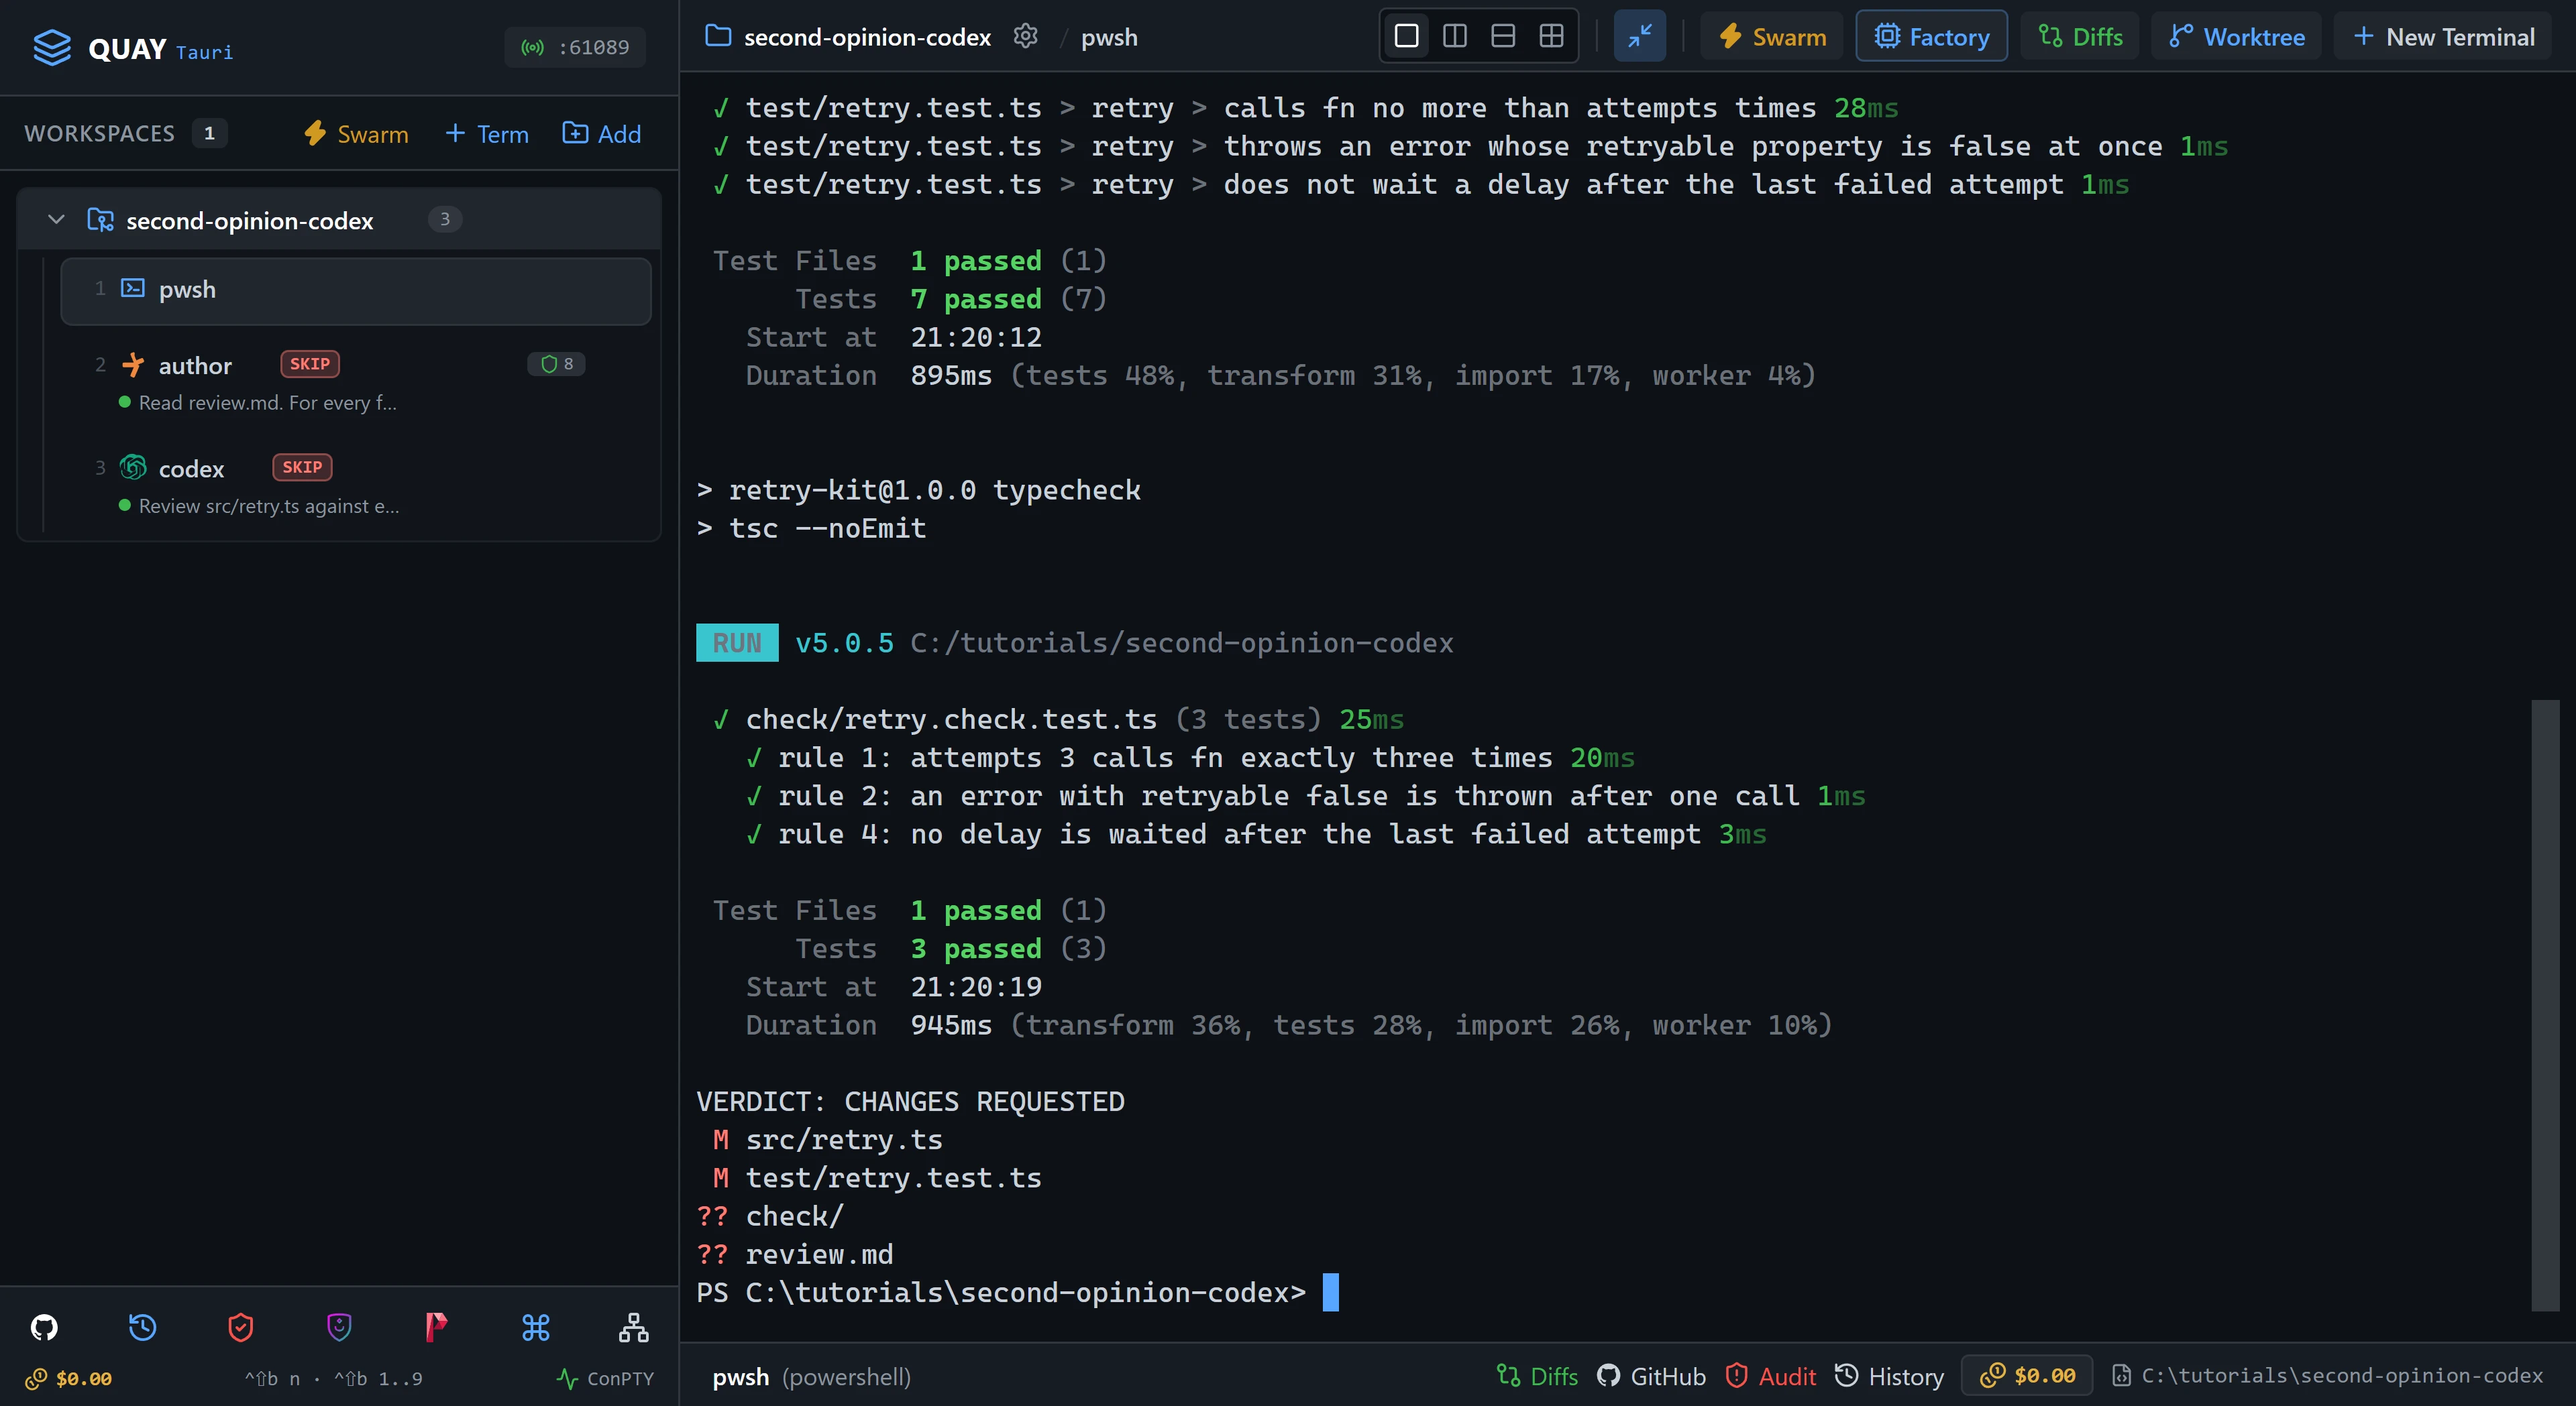
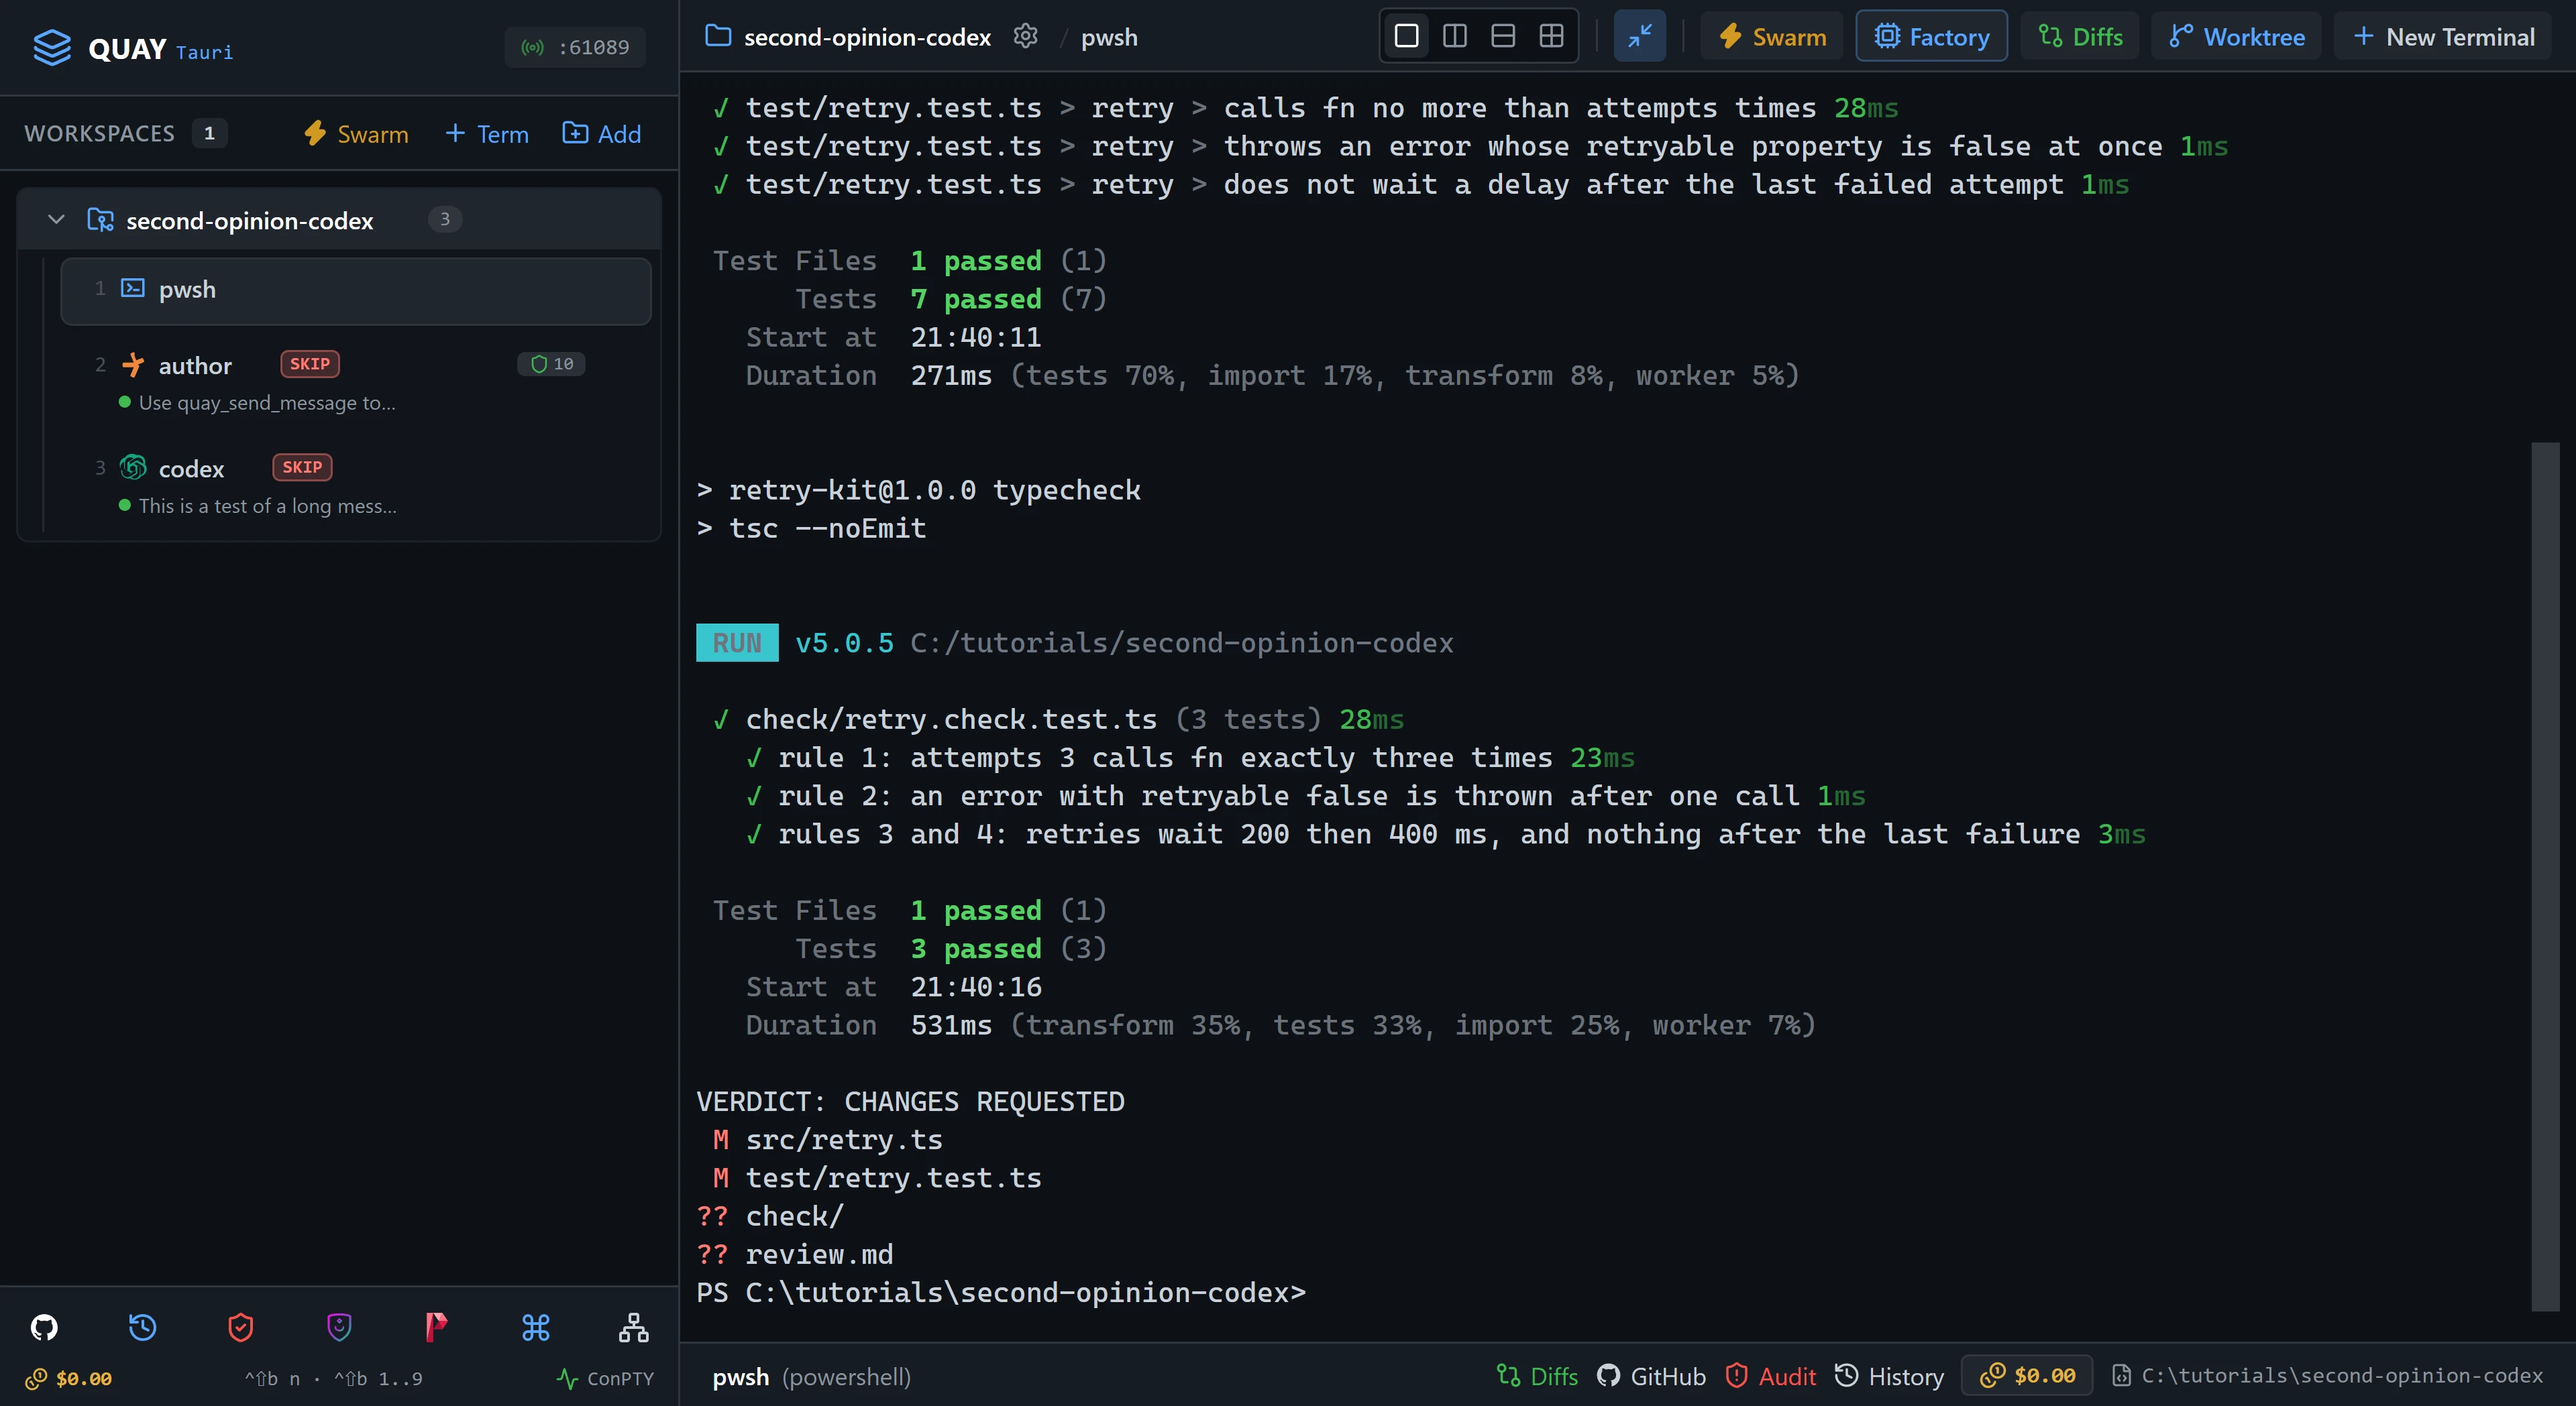
A2A 10: close the gaps the review and second read found
Step 3's recoveries repeat from item 3 after clicking into the right pane,
and the Bypass Permissions If not says where the cursor starts. The intro
no longer cites unpublished A2A 6, and the closing card links Swarm 4.
The third check test now also checks the backoff delays (rules 3 and 4),
and the 08 still shows its new name. Step 8 allows a rewritten lockfile,
and AGENTS.md keeps retry's options as SPEC.md gives them.

Claude-Session: https://claude.ai/code/session_018kz1duwniXmweLrmWFQ3Gm

diff --git a/examples/tutorials/second-opinion-codex/check/retry.check.test.ts b/examples/tutorials/second-opinion-codex/check/retry.check.test.ts
@@ -24,7 +24,7 @@ it("rule 2: an error with retryable false is thrown after one call", async () =>
   expect(fn).toHaveBeenCalledTimes(1);
 });
 
-it("rule 4: no delay is waited after the last failed attempt", async () => {
+it("rules 3 and 4: retries wait 200 then 400 ms, and nothing after the last failure", async () => {
   vi.useFakeTimers();
   const fn = vi.fn(async () => {
     throw new Error("down");
@@ -34,8 +34,14 @@ it("rule 4: no delay is waited after the last failed attempt", async () => {
     settled = true;
     return error;
   });
-  // Two retries wait 200 ms and 400 ms; nothing may wait after the third call fails.
-  await vi.advanceTimersByTimeAsync(600);
+  await vi.advanceTimersByTimeAsync(199);
+  expect(fn).toHaveBeenCalledTimes(1);
+  await vi.advanceTimersByTimeAsync(1);
+  expect(fn).toHaveBeenCalledTimes(2);
+  await vi.advanceTimersByTimeAsync(399);
+  expect(fn).toHaveBeenCalledTimes(2);
+  await vi.advanceTimersByTimeAsync(1);
+  expect(fn).toHaveBeenCalledTimes(3);
   expect(settled).toBe(true);
   expect(vi.getTimerCount()).toBe(0);
   await result;

diff --git a/docs/tutorials/a2a/second-opinion-codex/index.md b/docs/tutorials/a2a/second-opinion-codex/index.md
@@ -11,7 +11,7 @@
 
 **You'll learn:** how to open a Codex terminal in Quay and what its Skip mode means, how an agent that isn't Claude joins the A2A bus as a full peer, how to send Codex a job with `wait_for_reply` false, how to ask for an answer in a file of an agreed shape, how to poll with `quay_get_agent_status` until a peer is idle, and how to check an agent's review against tests it never saw.
 
-This tutorial builds on [A2A 1: Hello, A2A](/tutorials/a2a/hello-a2a/), which introduces the `quay_*` tools and Mission Control's trail, and reuses the fire, poll, then read the file pattern of A2A 6. You don't need to have done either.
+This tutorial builds on [A2A 1: Hello, A2A](/tutorials/a2a/hello-a2a/), which introduces the `quay_*` tools and Mission Control's trail, and reuses its moves for a job too long to wait for: send it without waiting, poll until the peer is idle, then read the file it wrote. You don't need to have done A2A 1.
 
 Quay's window has two parts: the **rail**, the panel down the left that lists your projects and their terminals, and the **stage** to its right, where the terminal panes open. Along the bottom of the stage, the **status strip** shows the status of the terminal that has focus. When the stage is split, each pane also has a **header** along its top with the terminal's name and, for an agent, its status. Every `Ctrl+Shift+B` shortcut is two key presses: press `Ctrl+Shift+B`, let go, then press the next key within a second and a half. The page writes a letter key as a capital, but it is the plain key: `Ctrl+Shift+B N` is `Ctrl+Shift+B`, then `n`, and `Ctrl+Shift+B O` is the letter o, never the digit zero. `Ctrl+Shift+B` and a number moves focus to the terminal at that place in the rail's list for your project, so `Ctrl+Shift+B 1` is the first one listed. Each Paste box names the pane its line goes into: copy the line with the box's copy button, click into that pane, press `Ctrl+V` to paste it, then press Enter to run it or send it to the agent.
 
@@ -100,7 +100,7 @@ Claude Code asks once for each new folder: `Quick safety check: Is this a projec
 :::
 
 ::: ifnot author asks you to accept Bypass Permissions mode
-Quay started `author` in Skip mode, which Claude Code calls Bypass Permissions mode, and Claude Code asks once before its first session in that mode. Click into `author`, choose **Yes, I accept** and press Enter.
+Quay started `author` in Skip mode, which Claude Code calls Bypass Permissions mode, and Claude Code asks once before its first session in that mode. It lists **No, exit** first, with the cursor on it. Click into `author`, press the Down arrow to move to **Yes, I accept**, and press Enter.
 :::
 
 ::: ifnot author shows the plugin hint
@@ -146,11 +146,11 @@ Codex asks before it runs hooks that are new or changed since you last trusted t
 :::
 
 ::: ifnot the codex pane printed Updating Codex CLI and then exited
-Codex tried to update itself and the download failed. Press `Ctrl+Shift+B 1` to bring back the PowerShell pane, paste `npm install -g @openai/codex@latest` and wait for it to finish. Then point at `codex` in the rail, click the **×** at the right end of its row (**Close terminal**), and repeat this step from item 2.
+Codex tried to update itself and the download failed. Press `Ctrl+Shift+B 1` to bring back the PowerShell pane, paste `npm install -g @openai/codex@latest` and wait for it to finish. Then point at `codex` in the rail, click the **×** at the right end of its row (**Close terminal**). Click into the right pane, and repeat this step from item 3.
 :::
 
 ::: ifnot Codex asks you to sign in
-Codex isn't signed in on this account. Close the `codex` terminal from the rail, sign in as [Codex CLI](/guide/installation#codex-cli) shows, then repeat this step from item 2.
+Codex isn't signed in on this account. Close the `codex` terminal from the rail, sign in as [Codex CLI](/guide/installation#codex-cli) shows, then click into the right pane and repeat this step from item 3.
 :::
 
 ::: ifnot codex opened on the left, over author
@@ -318,19 +318,20 @@ npm test; npm run typecheck; npx vitest run --config check/vitest.config.ts; Get
 :::
 
 ::: see
-![The PowerShell pane zoomed to the whole stage: npm test ends with 7 passed, the type check prints no error, the check suite's rule 1, rule 2 and rule 4 tests all pass with Tests 3 passed (3), then VERDICT: CHANGES REQUESTED, then git status lists src/retry.ts and test/retry.test.ts as modified and check and review.md as new.](./08-check.webp)
+![The PowerShell pane zoomed to the whole stage: npm test ends with 7 passed, the type check prints no error, the check suite's three tests, for rule 1, rule 2, and rules 3 and 4, all pass with Tests 3 passed (3), then VERDICT: CHANGES REQUESTED, then git status lists src/retry.ts and test/retry.test.ts as modified and check and review.md as new.](./08-check.webp)
 :::
 
 ::: must
 - Scrolled up: `npm test` shows every test passing, and `npm run typecheck` prints no error after its `> tsc --noEmit` line.
 - The check run shows `Tests  3 passed (3)`.
 - `VERDICT: CHANGES REQUESTED`.
-- `git status --short` prints four lines: ` M src/retry.ts`, ` M test/retry.test.ts`, `?? check/` and `?? review.md`.
+- `git status --short` lists ` M src/retry.ts`, ` M test/retry.test.ts`, `?? check/` and `?? review.md`, and no other file under `src/`, `test/` or `check/`.
 :::
 
 ::: may
 - The number of tests in `npm test`, and the times beside them.
 - The folder in the PowerShell prompt, which is wherever you unzipped the starter.
+- A ` M package-lock.json` line, if your npm rewrote the lockfile during `npm install` in step 1.
 :::
 
 ::: ifnot some check tests fail
@@ -349,5 +350,5 @@ Codex missed a problem, or `author` fixed one wrongly. Each check test's name st
 ::: next
 [Tutorials](/tutorials/)
 
-You've run every pattern on the bus. Build a swarm of your own with Swarm 4, or take a preset to a real project.
+This is the last tutorial in the A2A series. Build a swarm of your own with [Swarm 4: Build and save a custom swarm](/tutorials/swarm/custom-swarm/), or take a preset to a real project.
 :::

diff --git a/examples/tutorials/second-opinion-codex/starter/AGENTS.md b/examples/tutorials/second-opinion-codex/starter/AGENTS.md
@@ -20,4 +20,4 @@ each naming the line in `src/retry.ts`, what is wrong, and a one-line fix.
   properties.
 - Imports name the `.ts` file, as `test/retry.test.ts` does with `../src/retry.ts`.
   `npm run typecheck` rejects an import without the extension.
-- Keep the exported signature of `retry` unchanged.
+- Keep `retry`'s signature and its options as `SPEC.md` gives them.
